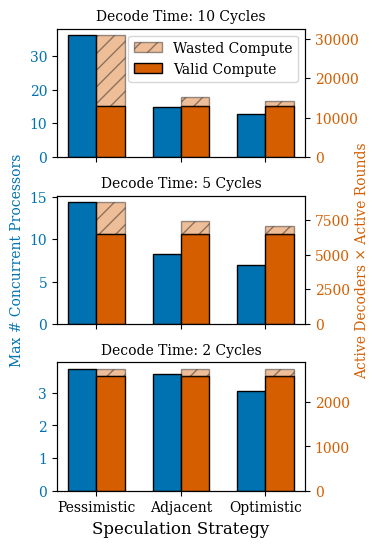
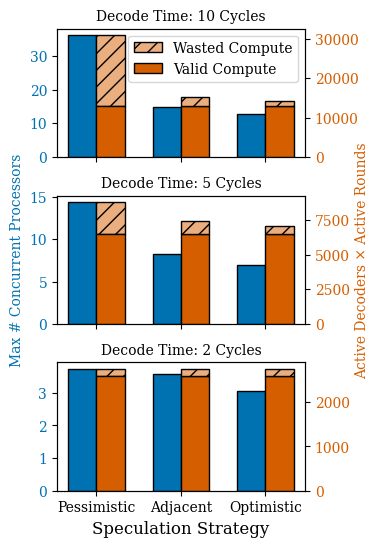
plot style changes

diff --git a/artifact/run_analysis.py b/artifact/run_analysis.py
@@ -19,7 +19,7 @@ import scipy
 import pandas as pd
 import stim
 import networkx as nx
-
+from matplotlib.colors import LinearSegmentedColormap
 from swiper.lattice_surgery_schedule import LatticeSurgerySchedule
 from swiper.schedule_experiments import RegularTSchedule, MSD15To1Schedule
 from swiper.simulator import DecodingSimulator
@@ -255,23 +255,26 @@ def plot_8b(mispredict_data_filename):
     fig, axes = plt.subplots(3, 1, figsize=(3.2, 6))
     plt.subplots_adjust(hspace=0.3)
 
+    def interpolate(color1, color2, alpha):
+        return LinearSegmentedColormap.from_list('_', [color1, color2])(alpha)
+
     for i, decode_time in enumerate(decode_times[::-1]):
         ax1 = axes[i]
         ax2 = ax1.twinx()
         real = decode_time * num_nodes
 
         ax1.bar(0.5, np.mean(pes_procs[decode_time]), color=color_list[0], width=0.2, edgecolor='black')
-        ax2.bar(0.7, np.mean(pes_classicals[decode_time]) - real, bottom=real, color=color_list[5], 
-            edgecolor='black', width=0.2, hatch='//', alpha=0.4, label='Wasted Compute' if i == 0 else None)
+        ax2.bar(0.7, np.mean(pes_classicals[decode_time]) - real, bottom=real, color=interpolate('w', color_list[5], 0.5), 
+            edgecolor='black', width=0.2, hatch='//', label='Wasted Compute' if i == 0 else None)
         ax2.bar(0.7, real, color=color_list[5], width=0.2, edgecolor='black', label='Valid Compute' if i == 0 else None)
 
         ax1.bar(1.1, np.mean(adj_procs[decode_time]), color=color_list[0], width=0.2, edgecolor='black')
         ax2.bar(1.3, real, color=color_list[5], width=0.2, edgecolor='black')
-        ax2.bar(1.3, np.mean(adj_classicals[decode_time]) - real, bottom=real, color=color_list[5], edgecolor='black', width=0.2, hatch='//', alpha=0.4)
+        ax2.bar(1.3, np.mean(adj_classicals[decode_time]) - real, bottom=real, color=interpolate('w', color_list[5], 0.5), edgecolor='black', width=0.2, hatch='//')
 
         ax1.bar(1.7, np.mean(opt_procs[decode_time]), color=color_list[0], width=0.2, edgecolor='black')
         ax2.bar(1.9, real, color=color_list[5], width=0.2, edgecolor='black')
-        ax2.bar(1.9, np.mean(opt_classicals[decode_time]) - real, bottom=real, color=color_list[5], edgecolor='black', width=0.2, hatch='//', alpha=0.4)
+        ax2.bar(1.9, np.mean(opt_classicals[decode_time]) - real, bottom=real, color=interpolate('w', color_list[5], 0.5), edgecolor='black', width=0.2, hatch='//')
 
         ax1.tick_params(axis='y', labelcolor=color_list[0])
         ax2.tick_params(axis='y', labelcolor=color_list[5])

diff --git a/artifact/README.md b/artifact/README.md
@@ -38,7 +38,8 @@ benchmark evaluations require significant computational resources (>3000
 single-core jobs, some of which take multiple days to complete) and a
 slurm-enabled compute cluster.
 
-The following scripts will re-generate various datasets:
+The following scripts will re-generate various datasets (note that the last two
+require a slurm cluster):
 
 - `analysis/run_pymatching_latencies.py`: evaluates latency of Pymatching on
   random decoding problems for different code distances and decoding volumes.
